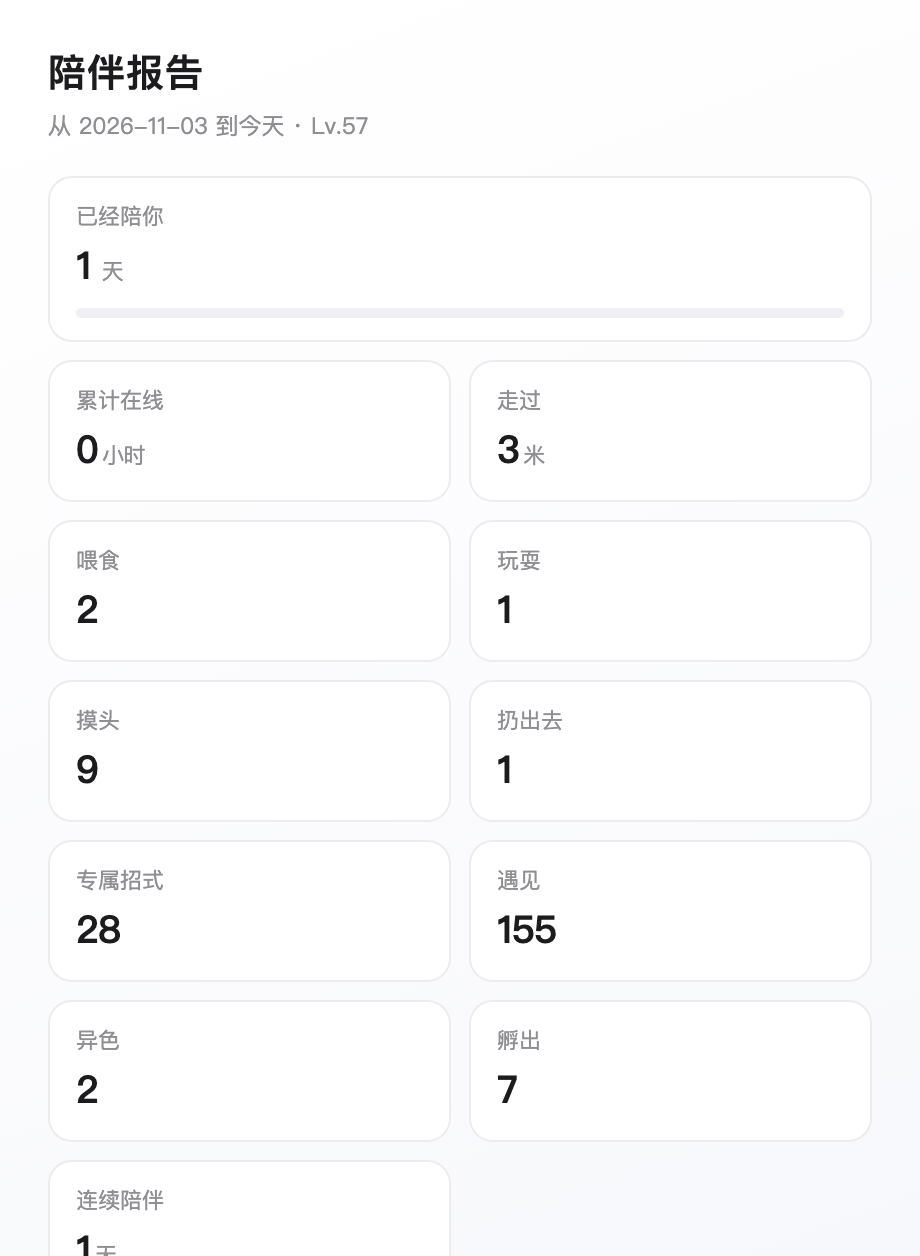
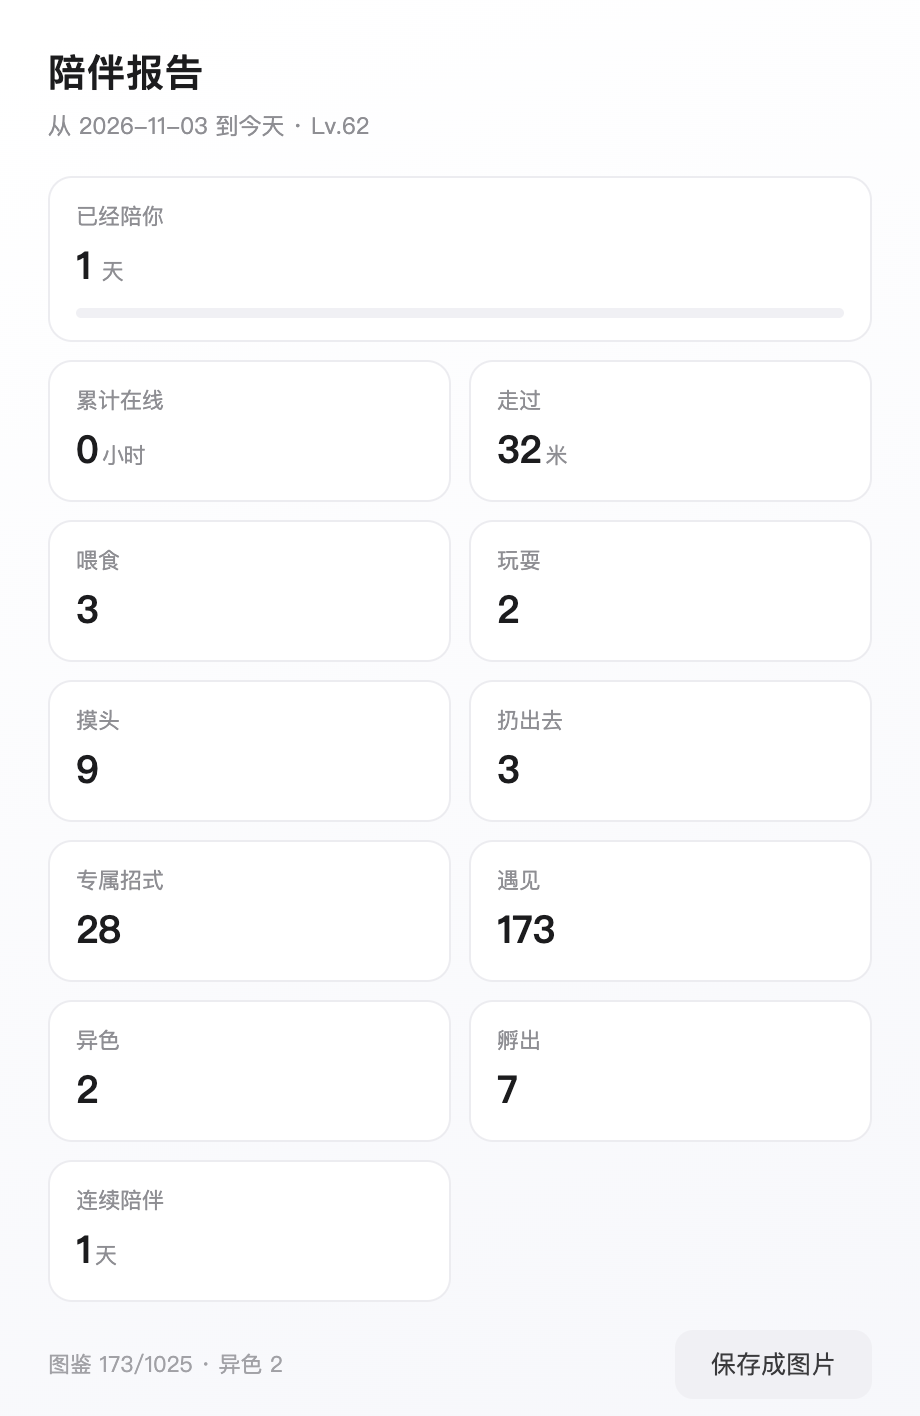
成就独立页面：14 枚徽章、解锁进度、灰彩对比

diff --git a/renderer/achievements.html b/renderer/achievements.html
@@ -1,0 +1,61 @@
+<!doctype html>
+<html lang="zh-CN">
+<head>
+<meta charset="utf-8">
+<title>成就</title>
+<style>
+  * { box-sizing: border-box; }
+  body {
+    margin: 0; min-height: 100vh; padding: 20px 22px;
+    font: 13px/1.5 -apple-system, "PingFang SC", "Microsoft YaHei", sans-serif;
+    background: linear-gradient(165deg, #fffdf7 0%, #f7f8fc 100%); color: #1c1c1e;
+  }
+  h1 { margin: 0 0 4px; font-size: 19px; }
+  .sub { margin: 0 0 12px; font-size: 11.5px; color: #8e8e93; }
+  .bar { height: 6px; background: #eef0f4; border-radius: 3px; overflow: hidden; margin-bottom: 16px; }
+  .bar i { display: block; height: 100%; border-radius: 3px; background: linear-gradient(90deg, #ffb347, #ff6b6b); transition: width .5s; }
+  .grid { display: grid; grid-template-columns: repeat(3, 1fr); gap: 10px; }
+  .ach {
+    background: #fff; border: 1px solid #ececf0; border-radius: 14px;
+    padding: 13px 10px 11px; text-align: center;
+    display: flex; flex-direction: column; align-items: center; gap: 6px;
+    position: relative;
+  }
+  .ach.locked { background: #fbfbfd; border-color: #f0f0f4; }
+  .badge {
+    width: 52px; height: 52px; border-radius: 50%;
+    display: flex; align-items: center; justify-content: center;
+    font-size: 25px; line-height: 1;
+    background: linear-gradient(145deg, #ffe9a8, #ffb347);
+    box-shadow: 0 3px 8px rgba(255, 159, 67, .28), inset 0 -2px 5px rgba(180, 110, 0, .18);
+  }
+  .ach.locked .badge {
+    background: #f1f2f6;
+    box-shadow: none;
+    filter: grayscale(1);
+    opacity: .55;
+  }
+  .ach .n { font-size: 12px; font-weight: 600; }
+  .ach.locked .n { color: #a1a1a6; font-weight: 500; }
+  .ach .d { font-size: 10.5px; color: #a1a1a6; line-height: 1.35; }
+  .ach .tick {
+    position: absolute; top: 7px; right: 8px; font-size: 10px; color: #34c759;
+  }
+  .ach.locked .tick { color: #d1d1d6; }
+  footer { margin-top: 14px; display: flex; justify-content: space-between; align-items: center; }
+  .hint { font-size: 11px; color: #a1a1a6; }
+  button { border: 0; border-radius: 9px; padding: 8px 18px; font: inherit; font-size: 12.5px; background: #f0f0f4; color: #3a3a3c; cursor: pointer; }
+</style>
+</head>
+<body>
+  <h1>成就</h1>
+  <p class="sub" id="sub">–</p>
+  <div class="bar"><i id="bar" style="width:0"></i></div>
+  <div class="grid" id="grid"></div>
+  <footer>
+    <span class="hint">解锁时会冒出来并叫一声</span>
+    <button id="close">关闭</button>
+  </footer>
+  <script src="achievements.js"></script>
+</body>
+</html>

diff --git a/main.js b/main.js
@@ -1230,6 +1230,7 @@ function createWindow() {
     if (process.env.PET_EGG === '1') setTimeout(() => spawnEgg(), 4000);
     if (process.env.PET_REPORT) setTimeout(() => createReportWindow(), 2500);
     if (process.env.PET_GAME) setTimeout(() => createGameWindow(), 2500);
+    if (process.env.PET_ACH) setTimeout(() => createAchievementsWindow(), 2500);
     if (process.env.PET_CLIMB === '1') setTimeout(() => { climbDir = 'up'; climbTop = 220; alt = 0; setState('climb', 45000); }, 1200);
     if (process.env.PET_CLIMB === '1') setTimeout(() => { try { console.log('[climb] y=', win.getBounds().y, 'state=', state, 'alt=', Math.round(alt)); } catch (_) {} }, 6000);
     if (process.env.PET_STONE === '1') { counters.stones = 3; saveState(); setTimeout(() => useStone(), 5000); }
@@ -1760,6 +1761,31 @@ function switchSpecies(dex) {
 }
 
 // ---------- 第一次打开：问一句要不要去点 Star ----------
+let achWin = null;
+
+function createAchievementsWindow() {
+  if (achWin && !achWin.isDestroyed()) { achWin.show(); achWin.focus(); return; }
+  achWin = new BrowserWindow({
+    width: 540, height: 660, resizable: false, minimizable: false, maximizable: false,
+    title: '成就', backgroundColor: '#fffdf7', show: false,
+    webPreferences: {
+      preload: path.join(__dirname, 'renderer', 'achievements-preload.js'),
+      contextIsolation: true, nodeIntegration: false
+    }
+  });
+  achWin.loadFile(path.join(__dirname, 'renderer', 'achievements.html'));
+  achWin.once('ready-to-show', () => {
+    achWin.show();
+    if (process.env.PET_CAPTURE) captureTo(achWin, 'ach-shot.png');
+  });
+  achWin.on('closed', () => { achWin = null; });
+}
+
+ipcMain.handle('ach:get', () => ({
+  achievements: ACHIEVEMENTS.map(a => ({ id: a.id, name: a.name, en: a.en || a.name, desc: a.desc, unlocked: !!unlocked[a.id] }))
+}));
+ipcMain.on('ach:close', () => { if (achWin && !achWin.isDestroyed()) achWin.close(); });
+
 let gameWin = null;
 
 function createGameWindow() {
@@ -1985,6 +2011,7 @@ ipcMain.handle('cfg:action', async (_e, name) => {
     else if (name === 'pomoStop') stopPomodoro();
     else if (name === 'report') createReportWindow();
     else if (name === 'game') createGameWindow();
+    else if (name === 'ach') createAchievementsWindow();
   } catch (e) { console.error('[cfg:action]', name, e); }
   return cfgSnapshot();
 });

diff --git a/renderer/settings.js b/renderer/settings.js
@@ -19,7 +19,7 @@ const pomoState = document.getElementById('pomo-state');
 const lvlEl = document.getElementById('lvl');
 const dexProgEl = document.getElementById('dex-prog');
 const achProgEl = document.getElementById('ach-prog');
-const achListEl = document.getElementById('ach-list');
+
 const guestSw = document.getElementById('guest');
 const natureEl = document.getElementById('nature');
 
@@ -346,10 +346,7 @@ function renderOpts(c) {
   if (dexProgEl) dexProgEl.textContent = `遇见 ${c.met}/${c.total} · 异色 ${c.shinyMet}`;
   const list = c.achievements || [];
   if (achProgEl) achProgEl.textContent = `${list.filter(a => a.unlocked).length}/${list.length} 已解锁`;
-  if (achListEl) {
-    achListEl.innerHTML = list.map(a =>
-      `<span class="${a.unlocked ? 'on' : ''}">${a.unlocked ? '✅' : '◻'} ${a.name}</span>`).join('');
-  }
+
   if (pomoState) {
     pomoState.textContent = c.pomo
       ? (c.pomo.phase === 'work' ? '专注中…' : '休息中…')
@@ -513,6 +510,9 @@ if (shareBtn) {
     try { renderOpts(await window.cfg.action('share')); } finally { shareBtn.disabled = false; }
   };
 }
+
+const achBtn = document.getElementById('ach-btn');
+if (achBtn) achBtn.onclick = () => window.cfg.action('ach');
 
 const reportBtn = document.getElementById('report-btn');
 if (reportBtn) reportBtn.onclick = () => window.cfg.action('report');

diff --git a/renderer/achievements.js b/renderer/achievements.js
@@ -1,0 +1,30 @@
+const ICONS = {
+  first: '👋', dex10: '🚪', dex50: '🧭', dex200: '🔬', dex1025: '📚',
+  shiny1: '✨', shiny8: '💎', sig10: '🌟', sig100: '🏅',
+  feed50: '🍎', pet500: '🤚', throw10: '🎾',
+  streak7: '📅', checkin7: '✅'
+};
+
+async function load() {
+  const c = await window.ach.get();
+  const list = c.achievements || [];
+  const done = list.filter(a => a.unlocked).length;
+  document.getElementById('sub').textContent = `已解锁 ${done} / ${list.length}`;
+  document.getElementById('bar').style.width = Math.round((done / Math.max(1, list.length)) * 100) + '%';
+
+  const grid = document.getElementById('grid');
+  grid.innerHTML = '';
+  for (const a of list) {
+    const el = document.createElement('div');
+    el.className = 'ach' + (a.unlocked ? '' : ' locked');
+    el.innerHTML = `
+      <span class="tick">${a.unlocked ? '✓' : '🔒'}</span>
+      <div class="badge">${ICONS[a.id] || '🏆'}</div>
+      <span class="n">${a.name}</span>
+      <span class="d">${a.desc}</span>`;
+    grid.append(el);
+  }
+}
+
+document.getElementById('close').onclick = () => window.ach.close();
+load().catch(e => console.error('[ach]', e));

diff --git a/renderer/settings.html b/renderer/settings.html
@@ -130,7 +130,10 @@
       <span class="opt-label" id="ach-prog">–</span>
     </div>
 
-    <div class="opt ach-list" id="ach-list"></div>
+    <div class="opt">
+      <span class="opt-label">成就</span>
+      <button class="upd-btn" id="ach-btn">查看徽章 🏆</button>
+    </div>
 
     <div class="opt">
       <button class="upd-btn" id="random-btn">随机一只 🎲</button>

diff --git a/renderer/achievements-preload.js b/renderer/achievements-preload.js
@@ -1,0 +1,5 @@
+const { contextBridge, ipcRenderer } = require('electron');
+contextBridge.exposeInMainWorld('ach', {
+  get: () => ipcRenderer.invoke('ach:get'),
+  close: () => ipcRenderer.send('ach:close')
+});

diff --git a/README.md b/README.md
@@ -30,7 +30,7 @@ Electron 写的，免费开源，**macOS / Windows 都能装**。
   图鉴自动记下。伊布那 8 条分支会随机挑一种
 - **喂食和玩耍有动作**：食物从上面掉到嘴边被一口吃掉、冒爱心、小跳两下；
   球弹出去又弹回来，它会扑腾着去追
-- **成就**：13 个成就 —— 遇见图鉴、见异色、放招式、喂食、摸头、扔出去、连续陪伴
+- **成就**：14 个成就，各有徽章，独立页面查看（遇见图鉴、异色、招式、喂食、摸头、连续陪伴…）
 - **专注模式 / 番茄钟**：一键让它闭嘴别跑；25 或 45 分钟到点喊你起来动一动
 - **拍照分享**：生成一张图鉴卡 PNG（编号、属性、专属招式、图鉴描述、异色金标）
 - **自动换一只**：5 分钟到 3 小时任选，到点自己换个新的出来
